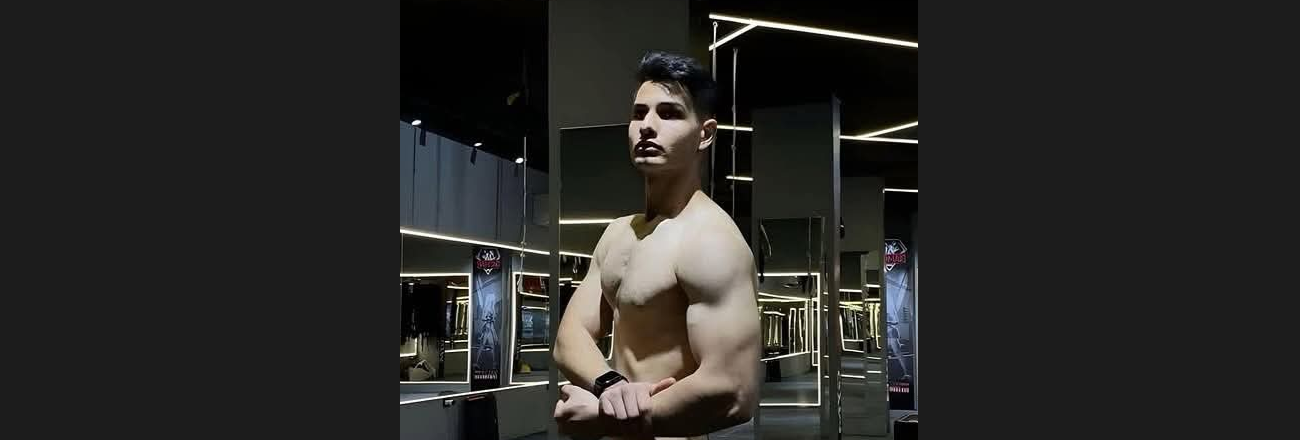
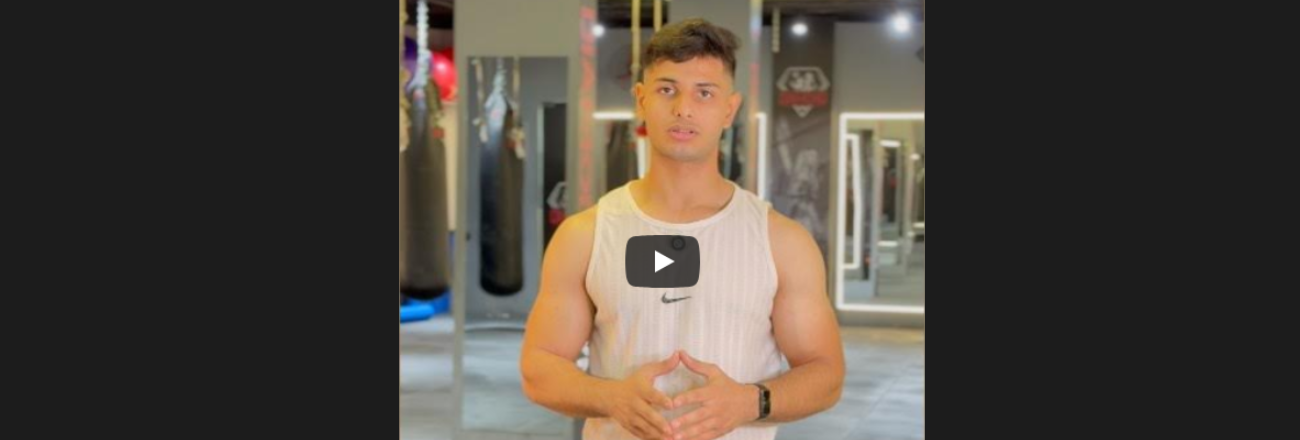
Done Update the site

diff --git a/index.html b/index.html
@@ -3,7 +3,7 @@
 <head>
     <meta charset="UTF-8">
     <meta name="viewport" content="width=device-width, initial-scale=1.0">
-    <title>كابتن محمود صالح - مدرب اللياقة البدنية</title>
+    <title>Mahmoud Saleh Fitness Coaching</title>
     
     <!-- Bootstrap RTL CSS -->
     <link rel="stylesheet" href="https://cdn.jsdelivr.net/npm/bootstrap@5.3.0/dist/css/bootstrap.rtl.min.css">
@@ -18,7 +18,7 @@
     <link rel="preconnect" href="https://fonts.gstatic.com" crossorigin>
     <link href="https://fonts.googleapis.com/css2?family=Cairo:wght@200;300;400;500;600;700;800;900&display=swap" rel="stylesheet">
     
-    <link rel="stylesheet" href="css/style.css?v=1.3">
+    <link rel="stylesheet" href="css/style.css?v=2">
 </head>
 <body>
 
@@ -90,7 +90,7 @@
                 <div class="col-lg-6" data-aos="fade-right" data-aos-duration="1000">
                     <div class="hero-image-wrapper">
                         <div class="hero-image-bg"></div>
-                        <img src="images/mahmoud.png?v=1.3" alt="كابتن محمود صالح" class="hero-image">
+                        <img src="images/mahmoud.png?v=2" alt="كابتن محمود صالح" class="hero-image">
                         <div class="floating-card floating-card-1">
                             <i class="fas fa-dumbbell"></i>
                             <span>تدريب شخصي</span>
@@ -207,7 +207,7 @@
                 </div>
                 <div class="col-lg-6" data-aos="fade-right">
                     <div class="video-wrapper">
-                        <img src="images/Untitled-design-(15).png?v=1.3" alt="Video Thumbnail" class="video-thumbnail">
+                        <img src="images/Untitled-design-(15).png?v=2" alt="Video Thumbnail" class="video-thumbnail">
                         <a href="https://youtube.com/shorts/_4mdmlDgRPk" target="_blank" class="video-play-btn">
                             <i class="fas fa-play"></i>
                         </a>
@@ -229,7 +229,7 @@
                 <div class="col-lg-6" data-aos="fade-up" data-aos-delay="100">
                     <div class="program-card program-training">
                         <div class="program-image">
-                            <img src="images/Group-40.png?v=1.3" alt="برنامج التدريب">
+                            <img src="images/Group-40.png?v=2" alt="برنامج التدريب">
                             <div class="program-overlay">
                                 <span class="program-tag">الأكثر شعبية</span>
                             </div>
@@ -259,7 +259,7 @@
                 <div class="col-lg-6" data-aos="fade-up" data-aos-delay="200">
                     <div class="program-card program-nutrition">
                         <div class="program-image">
-                            <img src="images/Group-40-(1).png?v=1.3" alt="برنامج التغذية">
+                            <img src="images/Group-40-(1).png?v=2" alt="برنامج التغذية">
                             <div class="program-overlay">
                                 <span class="program-tag">مميز</span>
                             </div>
@@ -341,7 +341,7 @@
                 <div class="col-lg-6" data-aos="fade-left">
                     <div class="about-image-wrapper">
                         <div class="about-image-bg"></div>
-                        <img src="images/DSC01869-copy-(1).jpg?v=1.3" alt="كابتن محمود صالح" class="about-image">
+                        <img src="images/DSC01869-copy-(1).jpg?v=2" alt="كابتن محمود صالح" class="about-image">
                         <div class="about-badge">
                             <div class="badge-icon">
                                 <i class="fas fa-certificate"></i>
@@ -430,10 +430,10 @@
                             <span class="period">/شهر</span>
                         </div>
                         <ul class="package-features">
-                            <li><i class="fas fa-check"></i> برنامج تدريب فقط</li>
-                            <li><i class="fas fa-check"></i> فيديوهات توضيحية</li>
-                            <li><i class="fas fa-check"></i> متابعة أسبوعية</li>
-                            <li><i class="fas fa-times"></i> برنامج تغذية</li>
+                            <li><i class="fas fa-check"></i> برنامج تدريب</li>
+                            <li><i class="fas fa-check"></i> برنامج تغذية</li>
+                            <li><i class="fas fa-times"></i> فيديوهات توضيحية</li>
+                            <li><i class="fas fa-times"></i> متابعة أسبوعية</li>
                             <li><i class="fas fa-times"></i> متابعة يومية</li>
                         </ul>
                         <a href="https://wa.me/+201012552752?text=مرحباً، أريد الاشتراك في الباقة الحديدية" class="btn btn-package">
@@ -561,17 +561,17 @@
                                 </div>
                             </div>
                         </div>
-                        <div class="row g-4 mt-3">
-                            <div class="col-md-6">
+                        <div class="row g-2 mt-3">
+                            <div class="col-6">
                                 <div class="transformation-image">
                                     <div class="image-badge before-badge">قبل</div>
-                                    <img src="images/Testimonials_Before.jpeg?v=1.3" alt="قبل التدريب - استاذ أمير" class="img-fluid">
+                                    <img src="images/Testimonials_Before.jpeg?v=2" alt="قبل التدريب - استاذ أمير" class="img-fluid">
                                 </div>
                             </div>
-                            <div class="col-md-6">
+                            <div class="col-6">
                                 <div class="transformation-image">
                                     <div class="image-badge after-badge">بعد</div>
-                                    <img src="images/Testimonials_After.jpeg?v=1.3" alt="بعد التدريب - استاذ أمير" class="img-fluid">
+                                    <img src="images/Testimonials_After.jpeg?v=2" alt="بعد التدريب - استاذ أمير" class="img-fluid">
                                 </div>
                             </div>
                         </div>
@@ -718,7 +718,6 @@
                 <div class="col-lg-4" data-aos="fade-up">
                     <div class="footer-about">
                         <h3 class="footer-brand">
-                            <span class="brand-icon">💪</span>
                             كابتن محمود صالح
                         </h3>
                         <p class="footer-text">
@@ -828,6 +827,6 @@
     <script src="https://cdn.jsdelivr.net/npm/bootstrap@5.3.0/dist/js/bootstrap.bundle.min.js"></script>
     <script src="https://unpkg.com/aos@2.3.1/dist/aos.js"></script>
     <script src="https://cdn.jsdelivr.net/npm/swiper@11/swiper-bundle.min.js"></script>
-    <script src="js/script.js?v=1.3"></script>
+    <script src="js/script.js?v=2"></script>
 </body>
 </html>

diff --git a/css/style.css b/css/style.css
@@ -585,7 +585,7 @@ a {
 
 .video-thumbnail {
     width: 100%;
-    height: 350px;
+    height: 200px;
     object-fit: cover;
     display: block;
 }
@@ -595,8 +595,8 @@ a {
     top: 50%;
     left: 50%;
     transform: translate(-50%, -50%);
-    width: 100px;
-    height: 100px;
+    width: 75px;
+    height: 75px;
     background: linear-gradient(135deg, var(--primary-color), #ff9a3c);
     border: none;
     border-radius: 50%;

diff --git a/README.md b/README.md
@@ -42,10 +42,16 @@ A professional fitness coaching website built for **Captain Mahmoud Saleh**, fea
 ### 💼 Core Sections
 - **Hero Section** - Animated background with floating cards and statistics
 - **Benefits Cards** - 6 animated benefit cards with hover effects
-- **Video Section** - YouTube video integration with modal popup
+- **Video Section** - YouTube video integration with direct link
 - **Training Programs** - Detailed program cards for training and nutrition
+- **Journey Steps** - 4-step process showing how to start with the coach
 - **About Section** - Coach profile with achievements and certifications
-- **Membership Packages** - 4 pricing tiers (Iron, Silver, Gold, Diamond)
+- **Membership Packages** - 4 pricing tiers:
+  - **Iron Package**: Training program + Nutrition program
+  - **Silver Package**: Training + Nutrition + Videos + Weekly follow-up
+  - **Gold Package**: All features + Recipe book + Daily follow-up + Weekly assessment
+  - **Diamond Package**: All Gold features + 24/7 support + Unlimited consultations
+- **Testimonials Section** - Before and after transformation images
 - **FAQ Accordion** - 6 commonly asked questions with smooth transitions
 - **CTA Section** - Call-to-action with gradient background
 - **Footer** - Complete contact information and social links
@@ -54,17 +60,20 @@ A professional fitness coaching website built for **Captain Mahmoud Saleh**, fea
 - **Mobile Menu** - Custom slide-in navigation for small screens
 - **Smooth Scrolling** - Animated page navigation
 - **Counter Animation** - Statistics counter on hero section
-- **Video Modal** - Bootstrap modal for video playback
+- **Video Modal** - YouTube Shorts direct link integration
 - **Scroll to Top** - Floating button with smooth scroll
 - **WhatsApp Integration** - Direct booking links throughout the site
 - **SEO Optimized** - Semantic HTML structure
+- **Cache Busting** - Version parameters on all assets (v=1.3)
 
 ## 🎨 Color Scheme
 
 ```css
-Primary Color:    #EC831B (Orange)
+Primary Color:    #FFD700 (Gold)
 Secondary Color:  #1C1C1C (Dark Gray)
-Accent Color:     #DDFE25 (Lime)
+Background:       #0D0D0D (Deep Black)
+Card Background:  #1F1F1F (Dark Gray)
+Text Light:       #E0E0E0 (Light Gray)
 ```
 
 ## 🛠 Technologies Used
@@ -92,7 +101,9 @@ Coach/
 │   ├── DSC01869-copy-(1).jpg  # About image
 │   ├── Group-40.png       # Training program image
 │   ├── Group-40-(1).png   # Nutrition program image
-│   └── Untitled-design-(15).png  # Video thumbnail
+│   ├── Untitled-design-(15).png  # Video thumbnail
+│   ├── Testimonials_Before.jpeg  # Before transformation
+│   └── Testimonials_After.jpeg   # After transformation
 └── README.md              # Documentation
 ```
 
@@ -137,9 +148,10 @@ Edit `index.html` and replace all instances of:
 Modify CSS variables in `css/style.css`:
 ```css
 :root {
-    --primary-color: #EC831B;
-    --secondary-color: #1C1C1C;
-    --accent-color: #DDFE25;
+    --primary-color: #FFD700;
+    --bg-dark: #0D0D0D;
+    --card-bg: #1F1F1F;
+    --text-dark: #E0E0E0;
 }
 ```
 
@@ -147,7 +159,12 @@ Modify CSS variables in `css/style.css`:
 
 Change video URL in `js/script.js`:
 ```javascript
-const videoUrl = 'https://www.youtube.com/embed/YOUR_VIDEO_ID';
+const videoUrl = 'https://www.youtube.com/embed/_4mdmlDgRPk';
+```
+
+Or update the direct link in `index.html`:
+```html
+<a href="https://youtube.com/shorts/_4mdmlDgRPk" target="_blank" class="video-play-btn">
 ```
 
 #### Modify Packages
